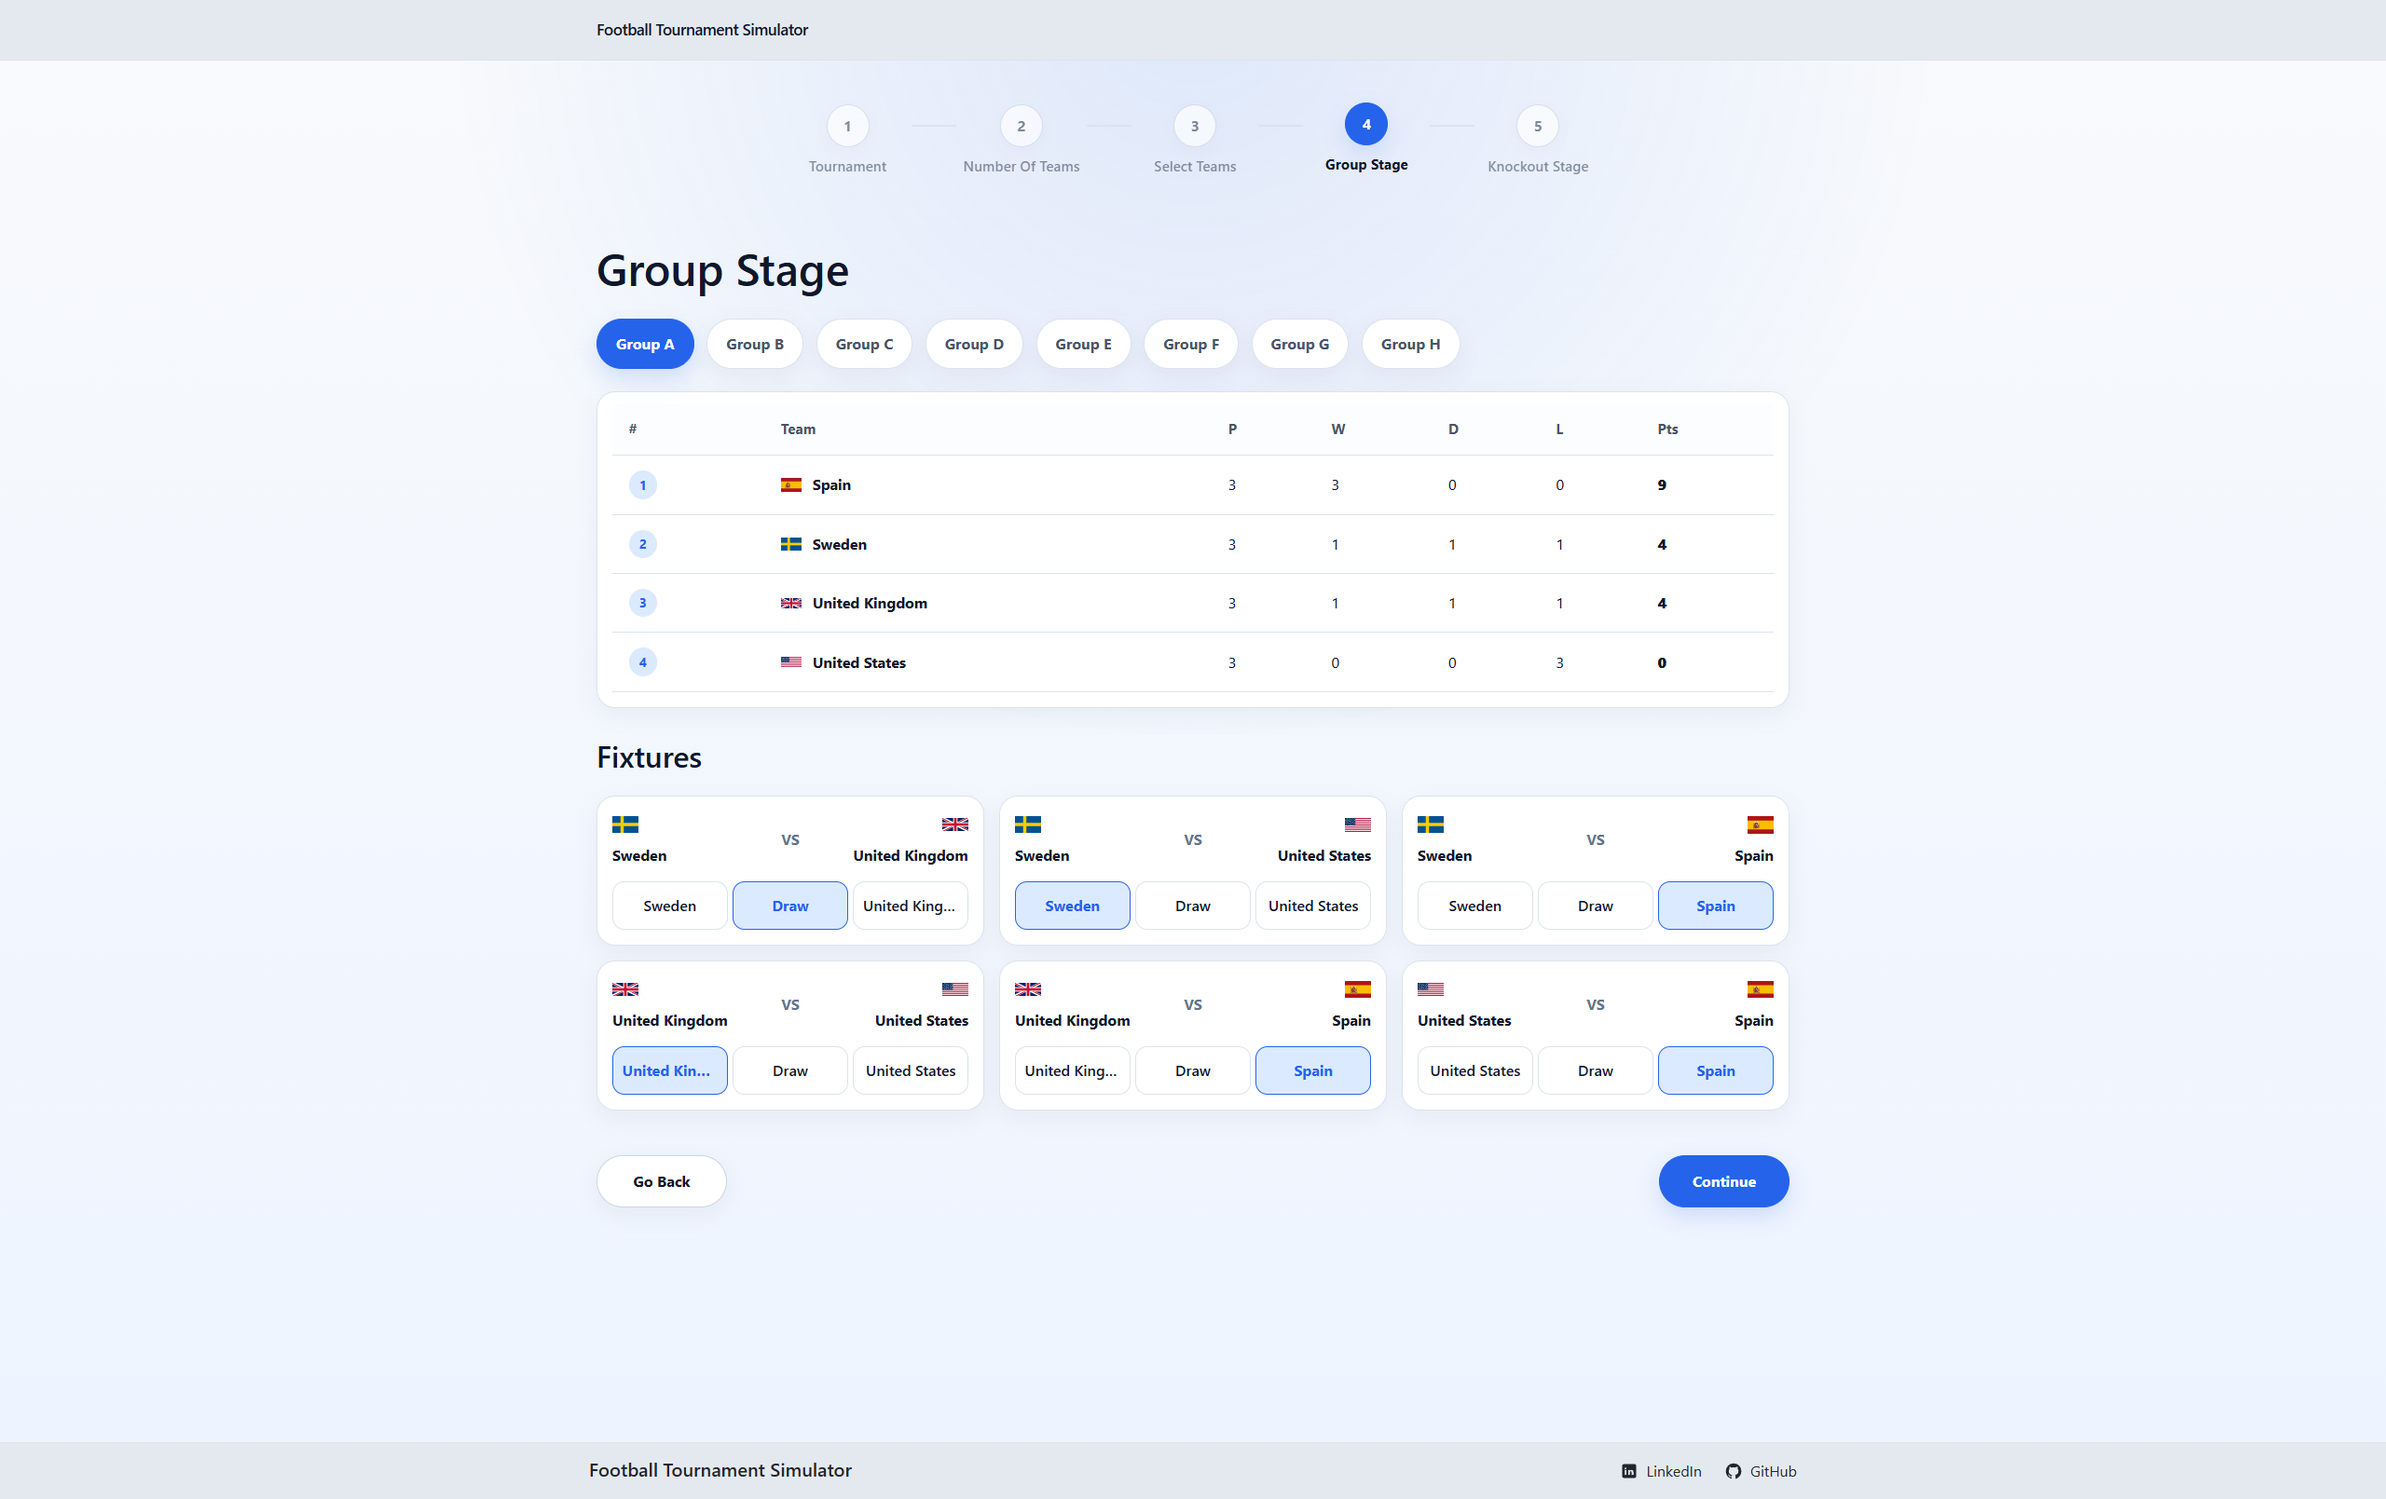
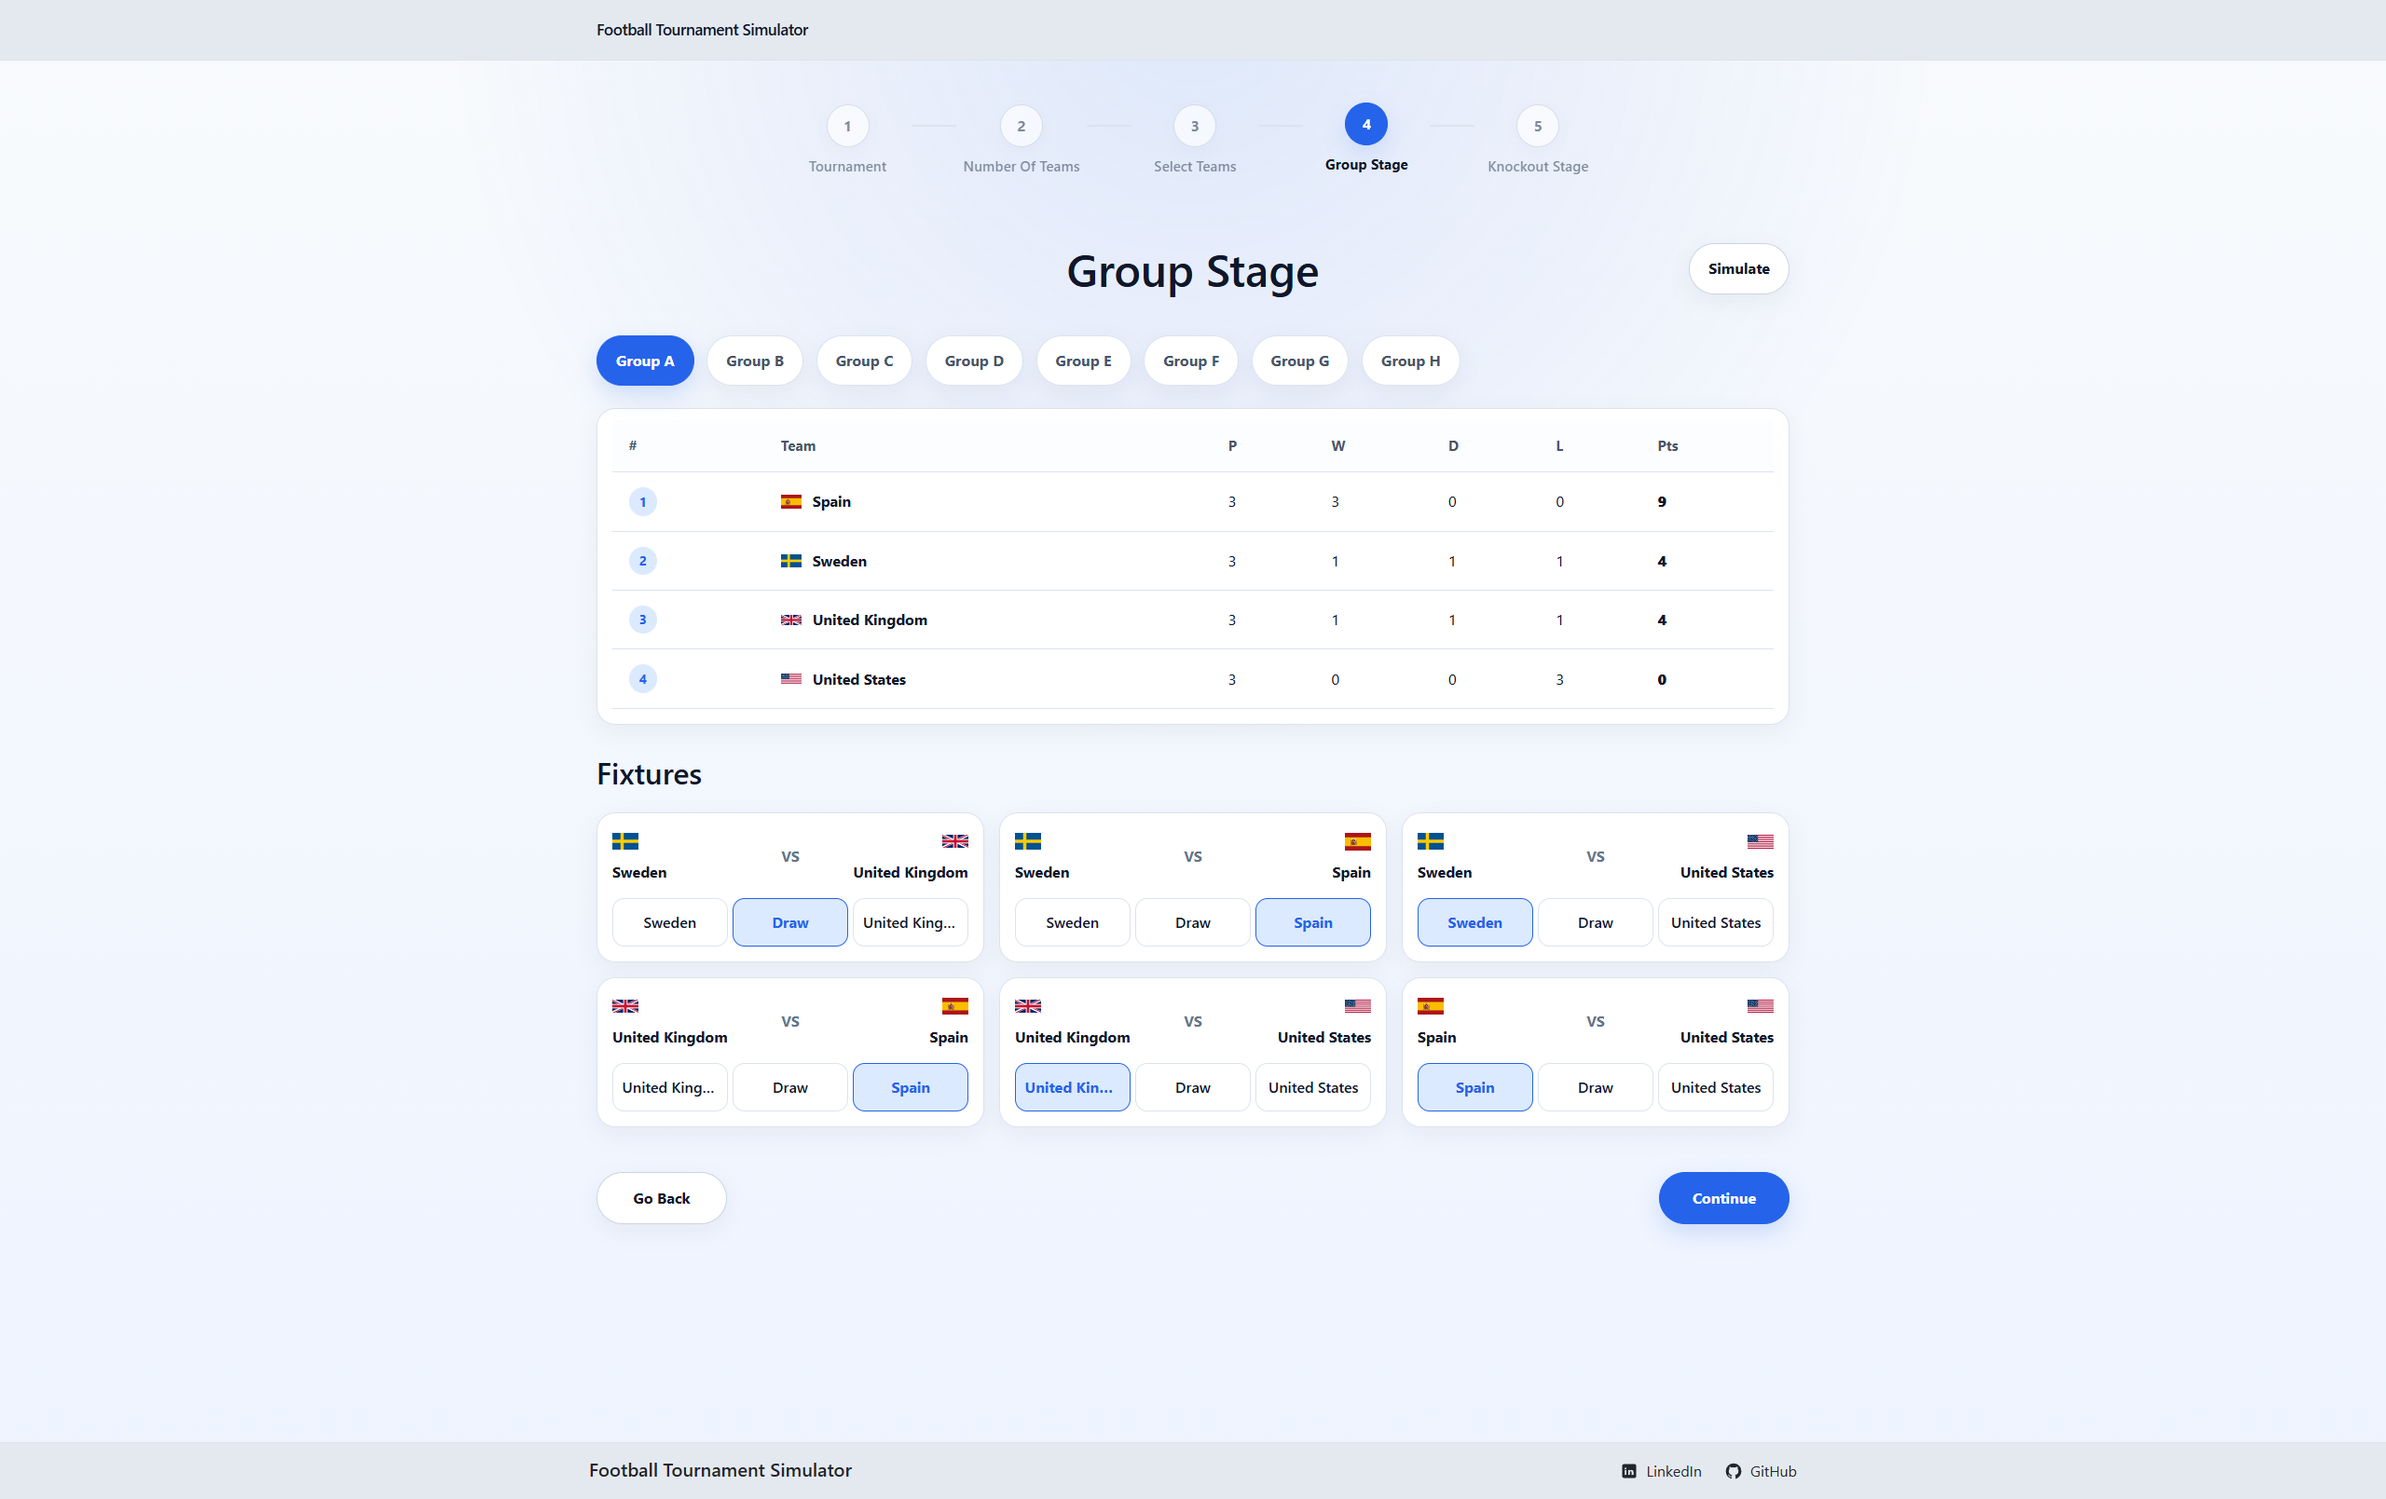
added auto simulation for all group matches

diff --git a/src/app/pages/tournament-page/steps/playing-group-stage-page/playing-group-stage-page.css b/src/app/pages/tournament-page/steps/playing-group-stage-page/playing-group-stage-page.css
@@ -39,14 +39,42 @@
 }
 
 .group-stage-header {
-  margin-bottom: 1.75rem;
+  display: grid;
+  grid-template-columns: 1fr auto 1fr;
+  align-items: center;
+  gap: 1rem;
+  margin-bottom: 2.75rem;
 }
 
 .group-stage-header h1 {
+  grid-column: 2;
   font-size: clamp(2rem, 4vw, 3rem);
   line-height: 1.1;
+  text-align: center;
   margin: 0;
   color: var(--color-text);
+}
+
+
+.auto-simulate-button {
+  border: 1px solid var(--color-border-strong);
+  background: var(--color-surface);
+  color: var(--color-text);
+  border-radius: 999px;
+  padding: 0.9rem 1.25rem;
+  font: inherit;
+  font-weight: 700;
+  cursor: pointer;
+  flex-shrink: 0;
+  box-shadow: var(--shadow-soft);
+  transition: transform 0.2s ease, border-color 0.2s ease, background 0.2s ease;
+  margin-left: auto;
+}
+
+.auto-simulate-button:hover {
+  transform: translateY(-2px);
+  border-color: var(--color-primary-soft);
+  background: var(--color-bg-soft);
 }
 
 .group-tabs {
@@ -317,9 +345,25 @@
   }
 }
 
+@media (max-width: 900px) {
+  .group-stage-header {
+    flex-direction: column;
+    align-items: stretch;
+  }
+
+  .group-stage-header h1 {
+    text-align: left;
+  }
+
+  .auto-simulate-button {
+    align-self: flex-start;
+  }
+}
+
 @media (max-width: 700px) {
-  .group-stage-page {
+  .group-stage-header {
     padding: 1rem;
+    margin-bottom: 2rem;
   }
 
   .standings-card {
@@ -398,6 +442,7 @@
   }
 
   .back-button,
+  .auto-simulate-button,
   .continue-button {
     width: 100%;
   }

diff --git a/src/app/pages/tournament-page/steps/playing-group-stage-page/playing-group-stage-page.ts b/src/app/pages/tournament-page/steps/playing-group-stage-page/playing-group-stage-page.ts
@@ -47,6 +47,30 @@ export class PlayingGroupStagePage {
     this.goBack.emit();
   }
 
+  autoSimulate(): void {
+    const currentMatches = this.groupMatches();
+    const updatedMatches: Record<string, GroupMatch[]> = {};
+
+    for (const group of this.groups()) {
+      const fixtures = currentMatches[group.name] ?? [];
+
+      updatedMatches[group.name] = fixtures.map((match) => ({
+        ...match,
+        result: this.getRandomResult(),
+      }));
+    }
+
+    this.groupMatches.set(updatedMatches);
+  }
+
+  private getRandomResult(): MatchResult {
+    const random = Math.random();
+
+    if (random < 0.4) return 'home';
+    if (random < 0.7) return 'away';
+    return 'draw';
+  }
+
   getShortTeamName(name: string): string {
     return name.length > 20 ? `${name.slice(0, 20)}...` : name;
   }

diff --git a/src/app/pages/tournament-page/steps/selecting-teams-page/selecting-teams-page.css b/src/app/pages/tournament-page/steps/selecting-teams-page/selecting-teams-page.css
@@ -46,7 +46,8 @@
 }
 
 .select-teams-header {
-  display: flex;
+  display: grid;
+  grid-template-columns: 1fr auto 1fr;
   align-items: center;
   justify-content: space-between;
   gap: 1rem;
@@ -54,6 +55,7 @@
 }
 
 .select-teams-header h1 {
+  grid-column: 2;
   font-size: clamp(2rem, 4vw, 3rem);
   line-height: 1.1;
   text-align: center;
@@ -74,6 +76,7 @@
   flex-shrink: 0;
   box-shadow: var(--shadow-soft);
   transition: transform 0.2s ease, border-color 0.2s ease, background 0.2s ease;
+  margin-left: auto;
 }
 
 .auto-draw-button:hover {

diff --git a/src/app/pages/tournament-page/steps/playing-group-stage-page/playing-group-stage-page.html b/src/app/pages/tournament-page/steps/playing-group-stage-page/playing-group-stage-page.html
@@ -2,6 +2,9 @@
   <div class="group-stage-container">
     <header class="group-stage-header">
       <h1>Group Stage</h1>
+      <button type="button" class="auto-simulate-button" (click)="autoSimulate()">
+        Simulate
+      </button>
     </header>
 
     <div class="group-tabs">
